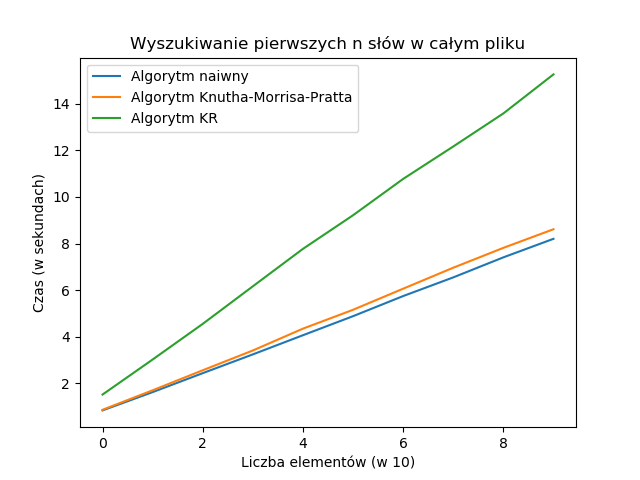
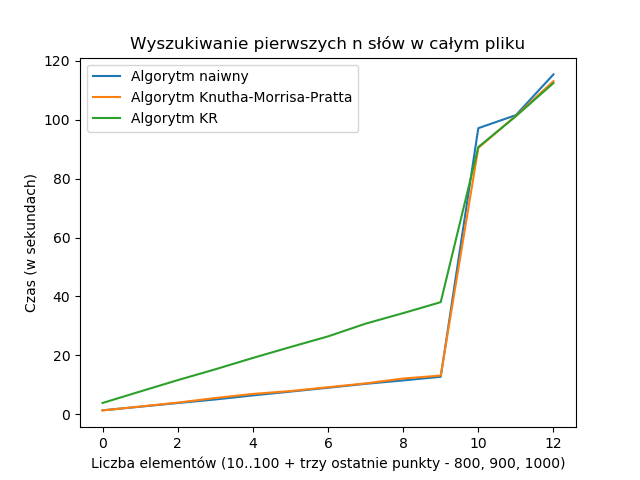
Dodatkowe punkty wykresu

diff --git a/Lab4/plotting.py b/Lab4/plotting.py
@@ -31,6 +31,14 @@ def testNaive():
             stringSearchN.find(string, text)
         stop = time.perf_counter()
         times.append(stop-start)
+    for i in range(8, 11):
+        strings = readFirstWords('pan-tadeusz.txt', i * 100)
+        start = time.perf_counter()
+        for string in strings:
+            stringSearchN.find(string, text)
+        stop = time.perf_counter()
+        times.append(stop-start)
+        print("dupaN" + str(i))
     return times
 
 
@@ -44,6 +52,14 @@ def testKMP():
             stringSearchKMP.find(string, text)
         stop = time.perf_counter()
         times.append(stop-start)
+    for i in range(8, 11):
+        strings = readFirstWords('pan-tadeusz.txt', i * 100)
+        start = time.perf_counter()
+        for string in strings:
+            stringSearchN.find(string, text)
+        stop = time.perf_counter()
+        times.append(stop-start)
+        print("dupaKMP" + str(i))
     return times
 
 
@@ -57,6 +73,14 @@ def testKR():
             stringSearchKR.search(string, text)
         stop = time.perf_counter()
         times.append(stop-start)
+    for i in range(8, 11):
+        strings = readFirstWords('pan-tadeusz.txt', i * 100)
+        start = time.perf_counter()
+        for string in strings:
+            stringSearchN.find(string, text)
+        stop = time.perf_counter()
+        times.append(stop-start)
+        print("dupaKR" + str(i))
     return times
 
 
@@ -68,7 +92,7 @@ if __name__ == "__main__":
     plt.plot(KMPTimes)
     plt.plot(KRTimes)
     plt.title("Wyszukiwanie pierwszych n słów w całym pliku")
-    plt.xlabel("Liczba elementów (w 10)")
+    plt.xlabel("Liczba elementów (10..100 + trzy ostatnie punkty - 800, 900, 1000)")
     plt.ylabel("Czas (w sekundach)")
     plt.legend(["Algorytm naiwny", "Algorytm Knutha-Morrisa-Pratta", "Algorytm KR"])
     plt.savefig("stringPlot.png")
